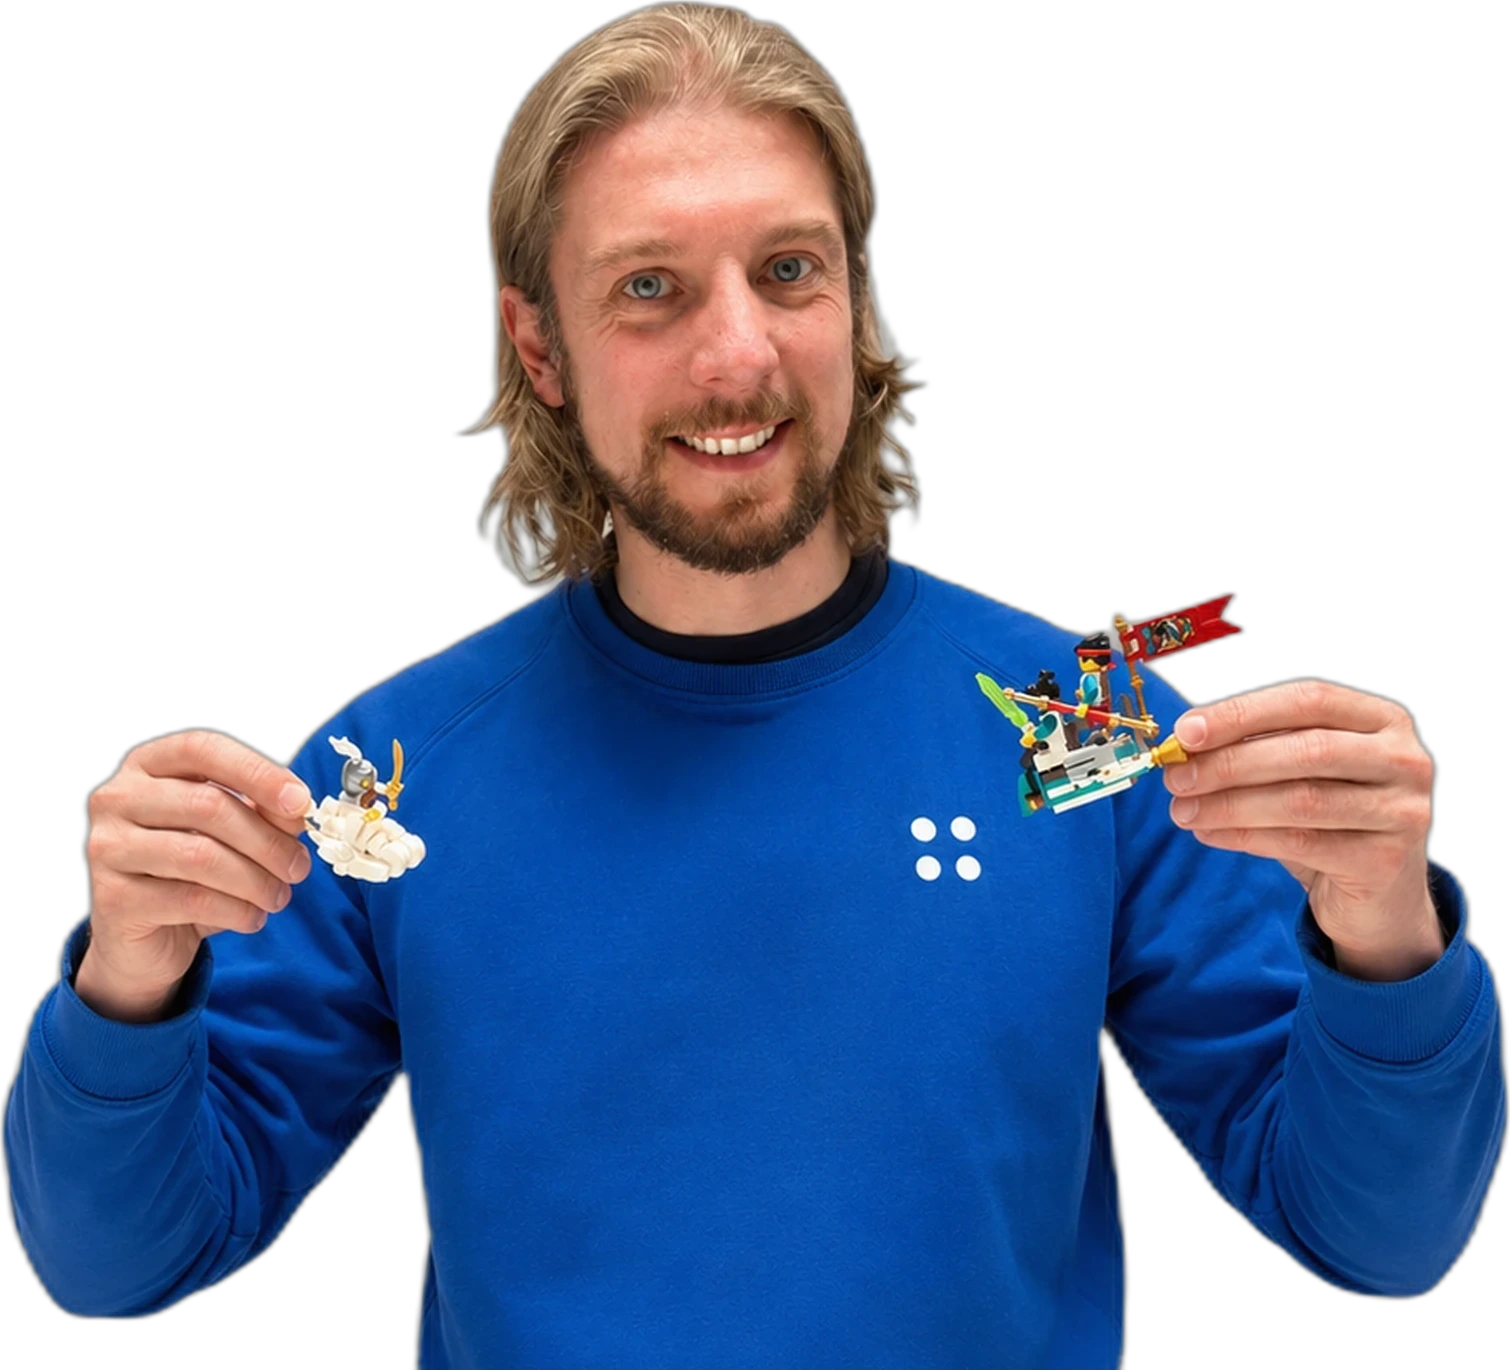
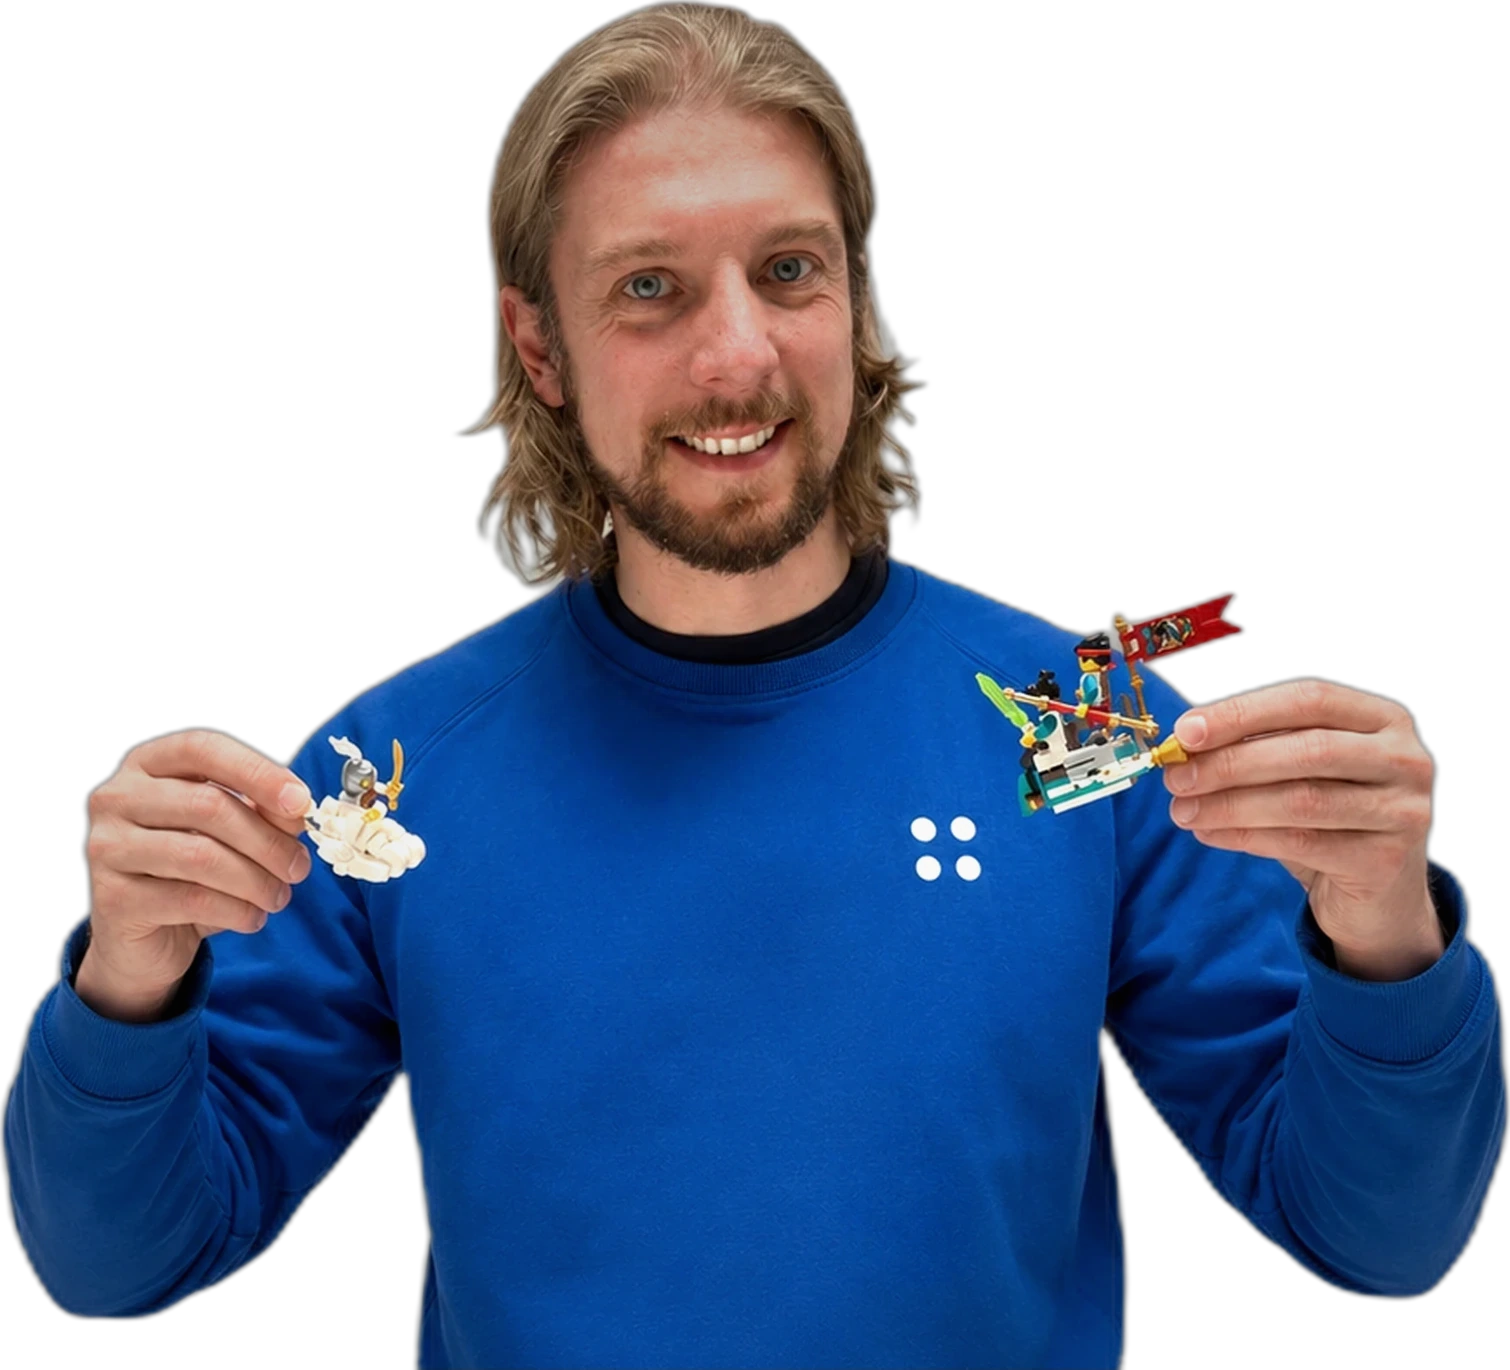
Speakers: Musk/Altman cutout grade + smoother fly-to-dock
Regrade hero cutouts (contrast, cool grade, vignette, feathered
edge), match vision soft/sharp shadow treatment, and lengthen the
dock fly with a soft sine ease.

diff --git a/src/scenes/finale/SpeakersEnd.tsx b/src/scenes/finale/SpeakersEnd.tsx
@@ -97,8 +97,8 @@ export function SpeakersEnd({ step, reduced }: SceneProps) {
     const settleFeature = () => {
       if (featured && feature && hero && soft && copy) {
         gsap.set(feature, { autoAlpha: 1 });
-        gsap.set(hero, { autoAlpha: 1, x: 0, y: 0, scale: 1, filter: "blur(0px)" });
-        gsap.set(soft, { autoAlpha: 0.22, x: 0, scale: 1.06, filter: "blur(22px)" });
+        gsap.set(hero, { autoAlpha: 1, x: 0, y: 0, scale: 1, clearProps: "filter" });
+        gsap.set(soft, { autoAlpha: 0.22, x: 0, scale: 1.1, filter: "blur(22px)" });
         gsap.set(copy, { autoAlpha: 1, x: 0, y: 0 });
       } else if (feature) {
         gsap.set(feature, { autoAlpha: 0 });
@@ -127,8 +127,8 @@ export function SpeakersEnd({ step, reduced }: SceneProps) {
       gsap.set(copy, { autoAlpha: 0, x: -28, y: 10 });
       if (finale) gsap.set(finale, { autoAlpha: 0 });
       const intro = gsap.timeline();
-      intro.to(soft, { autoAlpha: 0.22, x: 0, scale: 1.06, filter: "blur(22px)", duration: 1.15, ease: EASE.move }, 0.12);
-      intro.to(hero, { autoAlpha: 1, x: 0, scale: 1, filter: "blur(0px)", duration: 1.25, ease: EASE.enter }, 0.14);
+      intro.to(soft, { autoAlpha: 0.22, x: 0, scale: 1.1, filter: "blur(22px)", duration: 1.15, ease: EASE.move }, 0.12);
+      intro.to(hero, { autoAlpha: 1, x: 0, scale: 1, filter: "blur(0px)", duration: 1.25, ease: EASE.enter, clearProps: "filter", onComplete: () => { gsap.set(hero, { clearProps: "filter" }); } }, 0.14);
       intro.to(copy, { autoAlpha: 1, x: 0, y: 0, duration: 1.0, ease: EASE.enter }, 0.28);
       return () => intro.kill();
     }
@@ -181,7 +181,7 @@ export function SpeakersEnd({ step, reduced }: SceneProps) {
         });
         el.appendChild(ghost);
 
-        gsap.set(chip, { autoAlpha: 0, scale: 0.94, y: 8 });
+        gsap.set(chip, { autoAlpha: 0, scale: 0.98, y: 6 });
         // Hide the newly painted featured briefly while park flies
         if (hero) gsap.set(hero, { autoAlpha: 0 });
         if (soft) gsap.set(soft, { autoAlpha: 0 });
@@ -194,16 +194,16 @@ export function SpeakersEnd({ step, reduced }: SceneProps) {
             top: (chipRect.top - stage.top) / sx + 6,
             width: 92,
             height: 116,
-            duration: 1.2,
-            ease: EASE.move,
+            duration: 1.55,
+            ease: "sine.inOut",
             onComplete: () => ghost.remove(),
           },
           0,
         );
         tl.to(
           chip,
-          { autoAlpha: 1, scale: 1, y: 0, duration: 0.7, ease: EASE.enter },
-          0.95,
+          { autoAlpha: 1, scale: 1, y: 0, duration: 0.95, ease: EASE.enter },
+          1.2,
         );
       }
     } else {
@@ -218,7 +218,7 @@ export function SpeakersEnd({ step, reduced }: SceneProps) {
       if (i >= parked) gsap.set(chip, { autoAlpha: 0 });
     });
 
-    const enterAt = advancing && prev < SPEAKERS.length ? 0.85 : 0.1;
+    const enterAt = advancing && prev < SPEAKERS.length ? 1.15 : 0.12;
 
     if (featured && feature && hero && soft && copy) {
       gsap.set(feature, { autoAlpha: 1 });
@@ -231,7 +231,7 @@ export function SpeakersEnd({ step, reduced }: SceneProps) {
         {
           autoAlpha: 0.22,
           x: 0,
-          scale: 1.06,
+          scale: 1.1,
           filter: "blur(22px)",
           duration: 1.15,
           ease: EASE.move,
@@ -247,6 +247,7 @@ export function SpeakersEnd({ step, reduced }: SceneProps) {
           filter: "blur(0px)",
           duration: 1.25,
           ease: EASE.enter,
+          onComplete: () => { gsap.set(hero, { clearProps: "filter" }); },
         },
         enterAt + 0.06,
       );

diff --git a/src/styles/finale-b.css b/src/styles/finale-b.css
@@ -116,7 +116,7 @@
   object-fit: contain;
   object-position: center bottom;
   display: block;
-  filter: drop-shadow(0 8px 16px rgba(3, 56, 61, 0.18));
+  filter: drop-shadow(-6px 4px 12px rgba(3, 56, 61, 0.18));
 }
 .sp-chip-body { min-width: 0; }
 .sp-chip-n {
@@ -241,34 +241,43 @@
 .sp-feature-org { color: var(--muted); font-weight: 650; }
 .sp-hero-slot {
   position: absolute;
-  right: 40px;
+  right: 0;
   bottom: 0;
-  height: 82%;
-  width: 720px;
+  height: 92%;
+  width: 820px;
   pointer-events: none;
   opacity: 0;
 }
 .sp-hero {
   position: absolute;
-  right: 40px;
+  right: 0;
   bottom: 0;
-  height: 82%;
+  height: 92%;
   width: auto;
-  max-width: 820px;
+  max-width: 860px;
   object-fit: contain;
   object-position: right bottom;
   display: block;
   z-index: 3;
-  filter: drop-shadow(0 -4px 32px rgba(3, 56, 61, 0.16));
+  transform-origin: 100% 100%;
+  /* Musk/Altman/Reva-style soft ambient shadow */
+  filter: drop-shadow(-28px 8px 42px rgba(3, 56, 61, 0.22))
+          drop-shadow(0 18px 48px rgba(3, 56, 61, 0.12));
   pointer-events: none;
 }
 .sp-hero-soft {
   z-index: 2;
+  right: 0;
+  bottom: 0;
+  height: 92%;
+  max-width: 860px;
   opacity: 0.22;
   filter: blur(22px);
   transform-origin: 100% 100%;
+  transform: scale(1.1);
 }
 .sp-fly {
   object-fit: contain;
   object-position: center bottom;
+  transform-origin: 50% 100%;
 }
